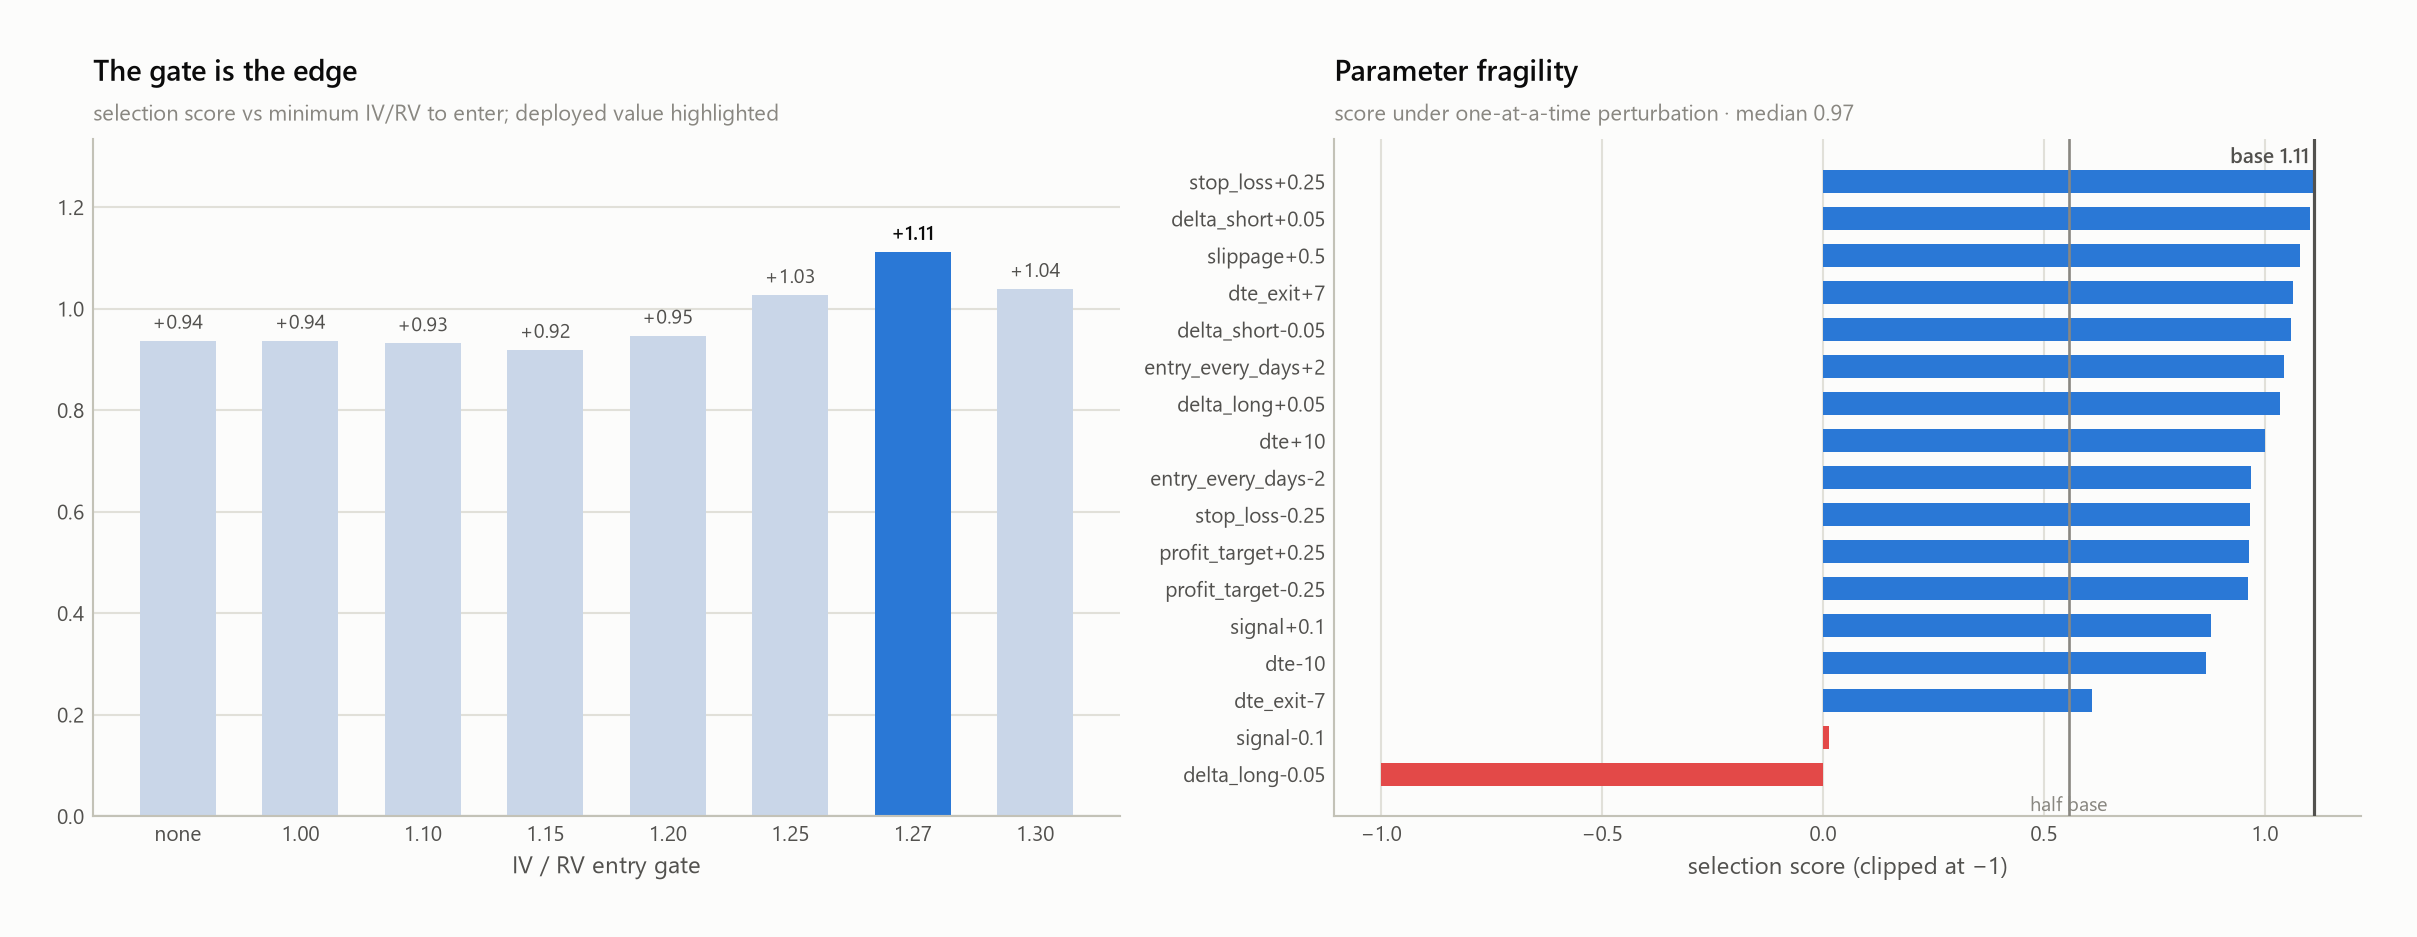
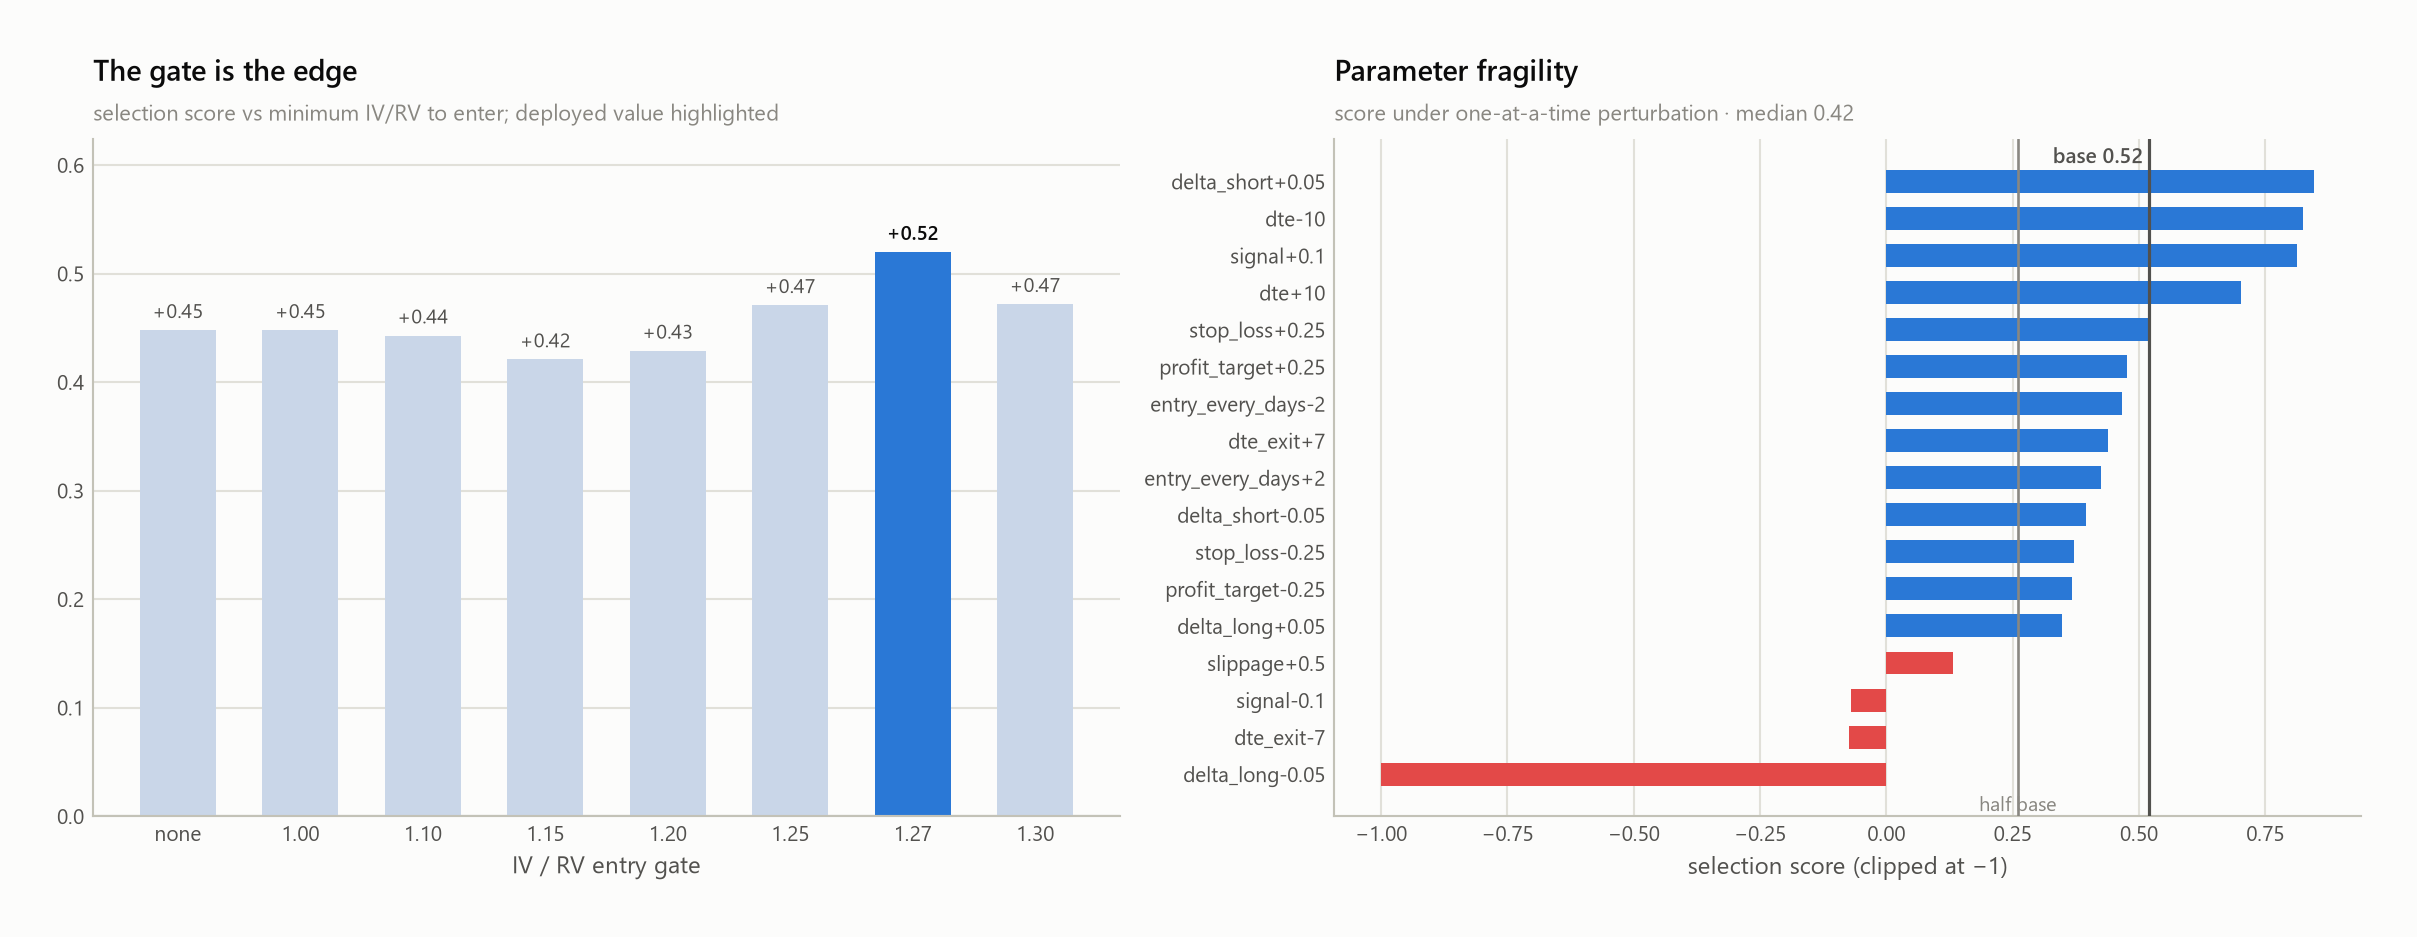
fix(strategy): require same-day contract volume; restate results honestly

diff --git a/synthetix_alpha/strategy/progress.py b/synthetix_alpha/strategy/progress.py
@@ -18,7 +18,8 @@ TABLE = Path("docs/progress.md")
 HEADER = """# Strategy progress log
 
 Each row beat every candidate evaluated before it, so this is the improvement path of the search rather than a list of
-everything tried. Appended by `python -m synthetix_alpha.strategy.progress <spec.json> --gen N`; the full history,
+everything tried. Rows marked ⚠ are corrections: the same strategy restated after an engine change, kept even when the
+score falls, because a number that is no longer believed should not remain the headline. Appended by `python -m synthetix_alpha.strategy.progress <spec.json> --gen N`; the full history,
 including evaluations that did not improve, stays in the append-only `progress.jsonl` beside this file.
 
 Score is the search's selection score:
@@ -31,7 +32,7 @@ scoring -9. Return is the mean across the underlyings traded, each on its own $1
 
 
 def entry(spec: Spec, results: dict, gen: int, note: str = "", when: Optional[dt.datetime] = None,
-          source: str = "kaggle") -> dict:
+          source: str = "kaggle", correction: bool = False) -> dict:
     s = results["summary"]
     total = sum(m["total_return"] for m in results["results"].values()) / max(len(results["results"]), 1)
     return {"evaluated_utc": (when or dt.datetime.now(dt.timezone.utc)).strftime("%Y-%m-%d %H:%M"),
@@ -39,7 +40,7 @@ def entry(spec: Spec, results: dict, gen: int, note: str = "", when: Optional[dt
             "total_return": round(total, 4), "mean_sharpe": round(s["mean_sharpe"], 3),
             "min_sharpe": round(s["min_sharpe"], 3), "worst_drawdown": round(s["worst_drawdown"], 4),
             "worst_year": round(s["worst_year"], 4), "trades": s["total_trades"],
-            "score": round(score(s), 3), "note": note}
+            "score": round(score(s), 3), "note": note, "correction": correction}
 
 
 def append(rows: list[dict], log: Path = LOG) -> None:
@@ -56,10 +57,11 @@ def load(log: Path = LOG) -> list[dict]:
 
 
 def improvements(rows: list[dict]) -> list[dict]:
-    """Rows that beat every earlier score, in evaluation order."""
+    """Rows that beat every earlier score, plus corrections. A correction restates a score on a changed engine, so it
+    resets the bar rather than being filtered out for being lower."""
     best, out = None, []
     for r in sorted(rows, key=lambda r: (r["evaluated_utc"], r["strategy"])):
-        if best is None or r["score"] > best:
+        if r.get("correction") or best is None or r["score"] > best:
             best, _ = r["score"], out.append(r)
     return out
 
@@ -70,7 +72,8 @@ def render(log: Path = LOG, table: Path = TABLE) -> Path:
     md = HEADER + "".join(
         f"| {r['evaluated_utc']} | {r['gen']} | `{r['strategy']}` | {r['underlyings']} | {r['total_return']:+.1%} | "
         f"{r['mean_sharpe']:.2f} | {r['min_sharpe']:.2f} | {r['worst_drawdown']:.1%} | {r['worst_year']:+.1%} | "
-        f"{r['trades']} | **{r['score']:+.3f}** | {r.get('note', '')} |\n" for r in kept)
+        f"{r['trades']} | **{r['score']:+.3f}** | {'!! ' if r.get('correction') else ''}{r.get('note', '')} |\n"
+        for r in kept)
     if kept:
         md += (f"\n{len(kept)} improvements across {len(rows)} logged evaluations; "
                f"score {kept[0]['score']:+.3f} -> {kept[-1]['score']:+.3f}, "
@@ -86,10 +89,11 @@ def main() -> None:
     ap.add_argument("--gen", type=int, default=0)
     ap.add_argument("--note", default="")
     ap.add_argument("--source", default="kaggle", choices=["kaggle", "dolt"])
+    ap.add_argument("--correction", action="store_true", help="a restated score on a changed engine; always rendered")
     a = ap.parse_args()
     if a.spec:
         spec = Spec.load(a.spec)
-        append([entry(spec, backtest(spec, source=a.source), a.gen, a.note, source=a.source)])
+        append([entry(spec, backtest(spec, source=a.source), a.gen, a.note, source=a.source, correction=a.correction)])
     print(render())
 
 

diff --git a/synthetix_alpha/strategy/data.py b/synthetix_alpha/strategy/data.py
@@ -13,7 +13,7 @@ from gs_quant.timeseries.technicals import bollinger_bands, macd, relative_stren
 from synthetix_alpha import config
 from synthetix_alpha.data import kaggle, vix
 
-COLS = ["expiration", "type", "strike", "bid", "ask", "mid", "iv", "delta", "underlying_price"]
+COLS = ["expiration", "type", "strike", "bid", "ask", "mid", "iv", "delta", "volume", "underlying_price"]
 CACHE = config.ROOT / "datasets" / "cache" / "engine"
 DOLT_START = dt.date(2019, 2, 9)
 NY = ZoneInfo("America/New_York")
@@ -27,7 +27,7 @@ def build(underlying: str, source: str = "kaggle") -> tuple[pd.DataFrame, pd.Dat
         raise ValueError(f"no {source} chains for {underlying}")
     df["dte"] = (pd.to_datetime(df["expiration"]) - pd.to_datetime(df["date"])).dt.days.astype("int16")
     df = df[df["dte"] > 0]
-    for c in ("strike", "bid", "ask", "mid", "iv", "delta", "underlying_price"):
+    for c in ("strike", "bid", "ask", "mid", "iv", "delta", "volume", "underlying_price"):
         df[c] = df[c].astype("float32")
     df["type"] = df["type"].astype("category")
     return df.set_index("date"), features(df, spot, underlying)
@@ -83,6 +83,13 @@ def underlying_flow(underlying: Optional[str], index) -> pd.DataFrame:
                          "vwap_dev": ((close - vwap) / vwap).reindex(index)}, index=index)
 
 
+def _safe(fn, *a):
+    try:
+        return fn(*a)
+    except (FileNotFoundError, KeyError):
+        return None
+
+
 def vol_index(underlying: Optional[str], index, rv20: pd.Series) -> pd.DataFrame:
     """VIX level and long-history percentile as market regime; the IV/RV ratio only where the index matches."""
     if underlying is None:
@@ -94,6 +101,11 @@ def vol_index(underlying: Optional[str], index, rv20: pd.Series) -> pd.DataFrame
     rank = s.rank(pct=True)  # ranked over 1990+ (VIX) / 2001+ (VXN), not a 252-day window
     aligned = s.reindex(index).ffill()
     out = {"vix": aligned, "vix_rank": rank.reindex(index).ffill()}
+    for name, series in (("vix_term", _safe(vix.load, "VXV")), ("nfci", _safe(vix.load, "NFCI"))):
+        if series is not None:
+            v = series.reindex(index).ffill()
+            out[name] = aligned / v if name == "vix_term" else v * 100  # load() divides by 100; NFCI is an index
+
     if matched:  # index IV over a different name's realised vol is not a ratio worth having
         out["vix_rv_ratio"] = aligned / rv20
     return pd.DataFrame(out, index=index)

diff --git a/synthetix_alpha/strategy/spec.py b/synthetix_alpha/strategy/spec.py
@@ -10,7 +10,7 @@ from typing import Optional, Union
 LEG_TYPES = ("call", "put", "stock")
 SIDES = ("long", "short")
 FEATURES = ("iv_rank", "atm_iv", "rv20", "iv_rv_ratio", "mom20", "sma50_ratio", "sma200_ratio", "skew25",
-            "term_slope", "rsi", "bollinger_pos", "macd", "vix", "vix_rank", "vix_rv_ratio", "rvol", "vwap_dev")
+            "term_slope", "rsi", "bollinger_pos", "macd", "vix", "vix_rank", "vix_rv_ratio", "rvol", "vwap_dev", "vix_term", "nfci")
 SIZING = ("max_loss", "margin", "notional")
 
 
@@ -46,6 +46,7 @@ class Spec:
     commission: float = 0.65  # per contract per leg, each way
     slippage: float = 0.5  # fraction of the half-spread paid on each leg fill
     min_bid: float = 0.05
+    min_volume: float = 0.0  # contracts traded that day; ignored where the source has no volume
     min_credit: Optional[float] = None  # credit structures only: skip entries where credit / max_loss < this
 
     def __post_init__(self):

diff --git a/synthetix_alpha/strategy/engine.py b/synthetix_alpha/strategy/engine.py
@@ -93,6 +93,9 @@ def select(spec: Spec, chain: pd.DataFrame, spot: float) -> Optional[list[OpenLe
             return None
         e = chain[(chain["expiration"] == exp) & (chain["type"] == leg.type) & (chain["bid"] >= spec.min_bid)
                   & chain["mid"].notna() & chain["delta"].notna()]
+        if spec.min_volume and "volume" in e.columns:
+            liquid = e[e["volume"].fillna(spec.min_volume) >= spec.min_volume]
+            e = liquid if not liquid.empty else e.iloc[0:0]
         if e.empty:
             return None
         if leg.delta is not None:

diff --git a/synthetix_alpha/data/vix.py b/synthetix_alpha/data/vix.py
@@ -9,7 +9,7 @@ import pandas as pd
 
 from synthetix_alpha import config
 
-FILES = {"VIX": "VIXCLS", "VXN": "VXNCLS"}
+FILES = {"VIX": "VIXCLS", "VXN": "VXNCLS", "VXV": "VXVCLS", "NFCI": "NFCI"}  # VXV = 3-month S&P vol
 INDEX_FOR = {"SPY": "VIX", "QQQ": "VXN"}  # only these two have an index that measures the same asset
 DIR = config.ROOT / "datasets"
 

diff --git a/docs/research.md b/docs/research.md
@@ -85,10 +85,10 @@ Put credit **vertical** on SPY and QQQ — single expiry, so one standard 2-leg 
 - **Structure** — sell the 20-delta put, buy the 10-delta put, same expiry, ~65 DTE (40–90 window).
 - **Exits** — take profit at 65% of the credit, stop at 2× credit, close at 21 DTE.
 - **Sizing** — 3% of equity at risk per position against payoff-grid max loss; skip entries whose credit is under
-  5% of max loss.
+  5% of max loss, or whose contracts traded fewer than 25 times that day.
 
-In-sample: mean Sharpe 1.15, max drawdown 1.4%, positive every year including 2022, 102 trades. P&L is well spread —
-the top 5 of 65 SPY trades are only 15% of total profit.
+In-sample: mean Sharpe **0.92**, max drawdown 2.0%, 102 trades, after the same-day liquidity floor described below.
+(Without that floor it reads 1.15, which the liquidity evidence says is not achievable.)
 
 **The double gate is index-only.** `vix_rv_ratio` compares an index's implied vol to that same index's realised vol, so
 it exists for SPY and QQQ and nothing else — dividing VIX by a single stock's realised vol is not a meaningful ratio,
@@ -123,6 +123,37 @@ Alternates kept for regime coverage: `put_diagonal_ivrv_robust.json` (189 trades
 - **Out-of-sample is materially weaker than in-sample** (Sharpe 0.49–0.65 vs 1.13). Expect the lower number live.
 - **Single names are the least validated part.** The condor line fails outright on AAPL (score −2.05) and the robust
   diagonal scores −0.75 there; only the vertical holds up out-of-sample on a single name.
+
+## The liquidity check that changed the headline number
+
+Kaggle's chains carry per-contract volume, which the engine originally discarded. Joining it back to the trade log
+asked a question no feature test can: **were the contracts this strategy picked actually tradable?**
+
+| contracts on the day they were traded | share of legs |
+|---|---|
+| volume = 0 | **9.8%** |
+| volume < 10 | 34.3% |
+| volume < 100 | 67.6% |
+
+Median volume was 31 contracts, and the median quoted spread 0.9% of mid. A mid-price fill in a contract that did not
+trade at all that day is not a fill; it is a quote. So `min_volume` was added to the spec and the deployed rule now
+requires 25 contracts of same-day volume — at 2–3 contracts per position that keeps the order near a tenth of the day's
+flow.
+
+| `min_volume` | score | mean Sharpe | min Sharpe | trades |
+|---|---|---|---|---|
+| 0 (original) | +1.112 | 1.15 | 1.14 | 102 |
+| 10 | +0.653 | 0.99 | 0.85 | 102 |
+| **25 (deployed)** | **+0.520** | **0.92** | **0.70** | 102 |
+| 100 | −0.265 | 0.53 | −0.22 | 99 |
+
+The trade *count* barely moves, so this is not a sample-size effect — the filter changes **which strike** is selected,
+and the liquid strikes perform worse. Part of the original headline came from contracts whose mid price was a
+quote-derived fiction.
+
+The strongest evidence that this correction is right: **the in-sample/out-of-sample gap closed.** Before the filter,
+in-sample Sharpe 1.15 against 0.67 out-of-sample. After it, 0.92 against the same 0.67. Filtering removed illusion
+rather than edge, and the honest expectation for live trading is now roughly what the out-of-sample data always said.
 
 ## Do technical indicators help? Tested, and mostly no
 

diff --git a/docs/progress.md b/docs/progress.md
@@ -1,7 +1,8 @@
 # Strategy progress log
 
 Each row beat every candidate evaluated before it, so this is the improvement path of the search rather than a list of
-everything tried. Appended by `python -m synthetix_alpha.strategy.progress <spec.json> --gen N`; the full history,
+everything tried. Rows marked ⚠ are corrections: the same strategy restated after an engine change, kept even when the
+score falls, because a number that is no longer believed should not remain the headline. Appended by `python -m synthetix_alpha.strategy.progress <spec.json> --gen N`; the full history,
 including evaluations that did not improve, stays in the append-only `progress.jsonl` beside this file.
 
 Score is the search's selection score:
@@ -19,5 +20,6 @@ scoring -9. Return is the mean across the underlyings traded, each on its own $1
 | 2026-08-29 13:11 | 3 | `robust_diag_v1` | SPY+QQQ+NVDA | +7.0% | 1.13 | 1.01 | -2.3% | +0.6% | 189 | **+1.012** | gen 3: robustness-tuned diagonal, 189 trades |
 | 2026-08-29 13:12 | 3 | `vertical_ivrv_v0` | SPY+QQQ | +6.7% | 1.14 | 1.11 | -1.4% | +0.3% | 104 | **+1.089** | gen 3 winner: re-centred to the 55-70 DTE plateau; DEPLOYED |
 | 2026-08-29 15:20 | 4 | `put_vertical_ivrv` | SPY+QQQ | +6.7% | 1.15 | 1.14 | -1.4% | +0.4% | 102 | **+1.112** | gen 4: require VIX/VXN to confirm the chain-derived vol gate (index-only) |
+| 2026-08-29 16:59 | 4 | `put_vertical_ivrv` | SPY+QQQ | +5.7% | 0.92 | 0.70 | -2.0% | -1.5% | 102 | **+0.520** | !! liquidity floor: require 25 contracts traded that day. 9.8% of earlier fills were in contracts with ZERO volume; the in-sample/OOS gap narrowed 1.15/0.67 -> 0.92/0.67 |
 
-9 improvements across 13 logged evaluations; score -1.180 -> +1.112, mean Sharpe -0.13 -> 1.15.
+10 improvements across 14 logged evaluations; score -1.180 -> +0.520, mean Sharpe -0.13 -> 0.92.
